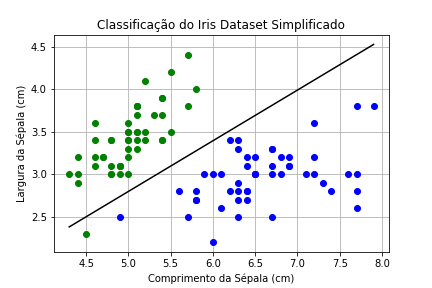
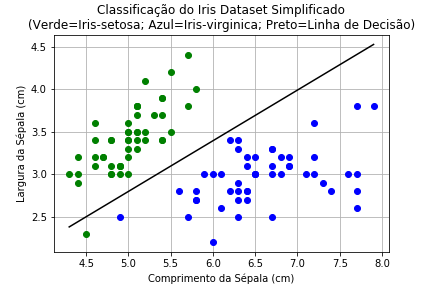
Improving codes

Changed region(s): [[0.0602, 0.0, 0.963, 0.125]]

diff --git a/regLogistica.py b/regLogistica.py
@@ -27,7 +27,7 @@ if __name__=='__main__':
     y = data[:, 4]
     theta = np.zeros([np.size(x, 0), 1])
     
-    alfa = 0.005
+    alfa = 0.1
     max_epochs = 500000
     
     error_hist = np.zeros([max_epochs])
@@ -52,25 +52,29 @@ if __name__=='__main__':
             break
             
     plt.figure(1)
+    plt.title("Classificação do Iris Dataset Simplificado\n(Verde=Iris-setosa; Azul=Iris-virginica)")
+    plt.xlabel("Comprimento da Sépala (cm)")
+    plt.ylabel("Largura da Sépala (cm)")
     
-    plt.grid()
     pos = np.where(y == 1)
     neg = np.where(y == 0)
+    
+    plt.grid()
     plt.plot(x[1,pos], x[2,pos], 'go', x[1,neg], x[2,neg], 'bo')
     plt.show()
 
     plt.figure(2)
-    plt.title("Classificação do Iris Dataset Simplificado")
-    plt.xlabel("Comprimento da Sépala (cm)")
-    plt.ylabel("Largura da Sépala (cm)")
     deciBound = decisionBound(theta, x)
     
-#    plt.subplot(1,2,1)
+    plt.subplot(1,2,1)
+    plt.title("Classificação do Iris Dataset Simplificado\n(Verde=Iris-setosa; Azul=Iris-virginica)")
+    plt.xlabel("Comprimento da Sépala (cm)")
+    plt.ylabel("Largura da Sépala (cm)")
     plt.grid()
     plt.plot(x[1,pos], x[2,pos], 'go', x[1,neg], x[2,neg], 'bo', deciBound[0], deciBound[1], 'k-')
     
-#    plt.subplot(1,2,2)
-#    plt.grid()
-#    plt.plot(error_hist[:epochs], "g-")
+    plt.subplot(1,2,2)
+    plt.grid()
+    plt.plot(error_hist[:epochs], "g-")
     
     plt.show()

diff --git a/regLinear.py b/regLinear.py
@@ -34,10 +34,11 @@ if __name__=='__main__':
         for j in range(n_features):
             theta[j] = theta[j] - (alfa/n_examples) * np.sum(error * x[j,:])
 
-        print("###### Epoch", epochs, "######")
-        print("Error:", error_hist[epochs])
-        print("Thetas:\n", theta)
-        print("")
+        if(epochs % 50 == 0):
+            print("###### Epoch", epochs, "######")
+            print("Error:", error_hist[epochs])
+            print("Thetas:\n", theta)
+            print("")
         
         if(abs(error_hist[epochs] - error_hist[epochs-50]) <= epsilon):
             print("Gradient Converged!!!\nStopping at epoch", epochs)
@@ -60,6 +61,6 @@ if __name__=='__main__':
     
     plt.subplot(1,2,2)
     plt.grid()
-    plt.plot(error_hist[:63], "g-")
+    plt.plot(error_hist[:epochs], "g-")
     
     plt.show()
